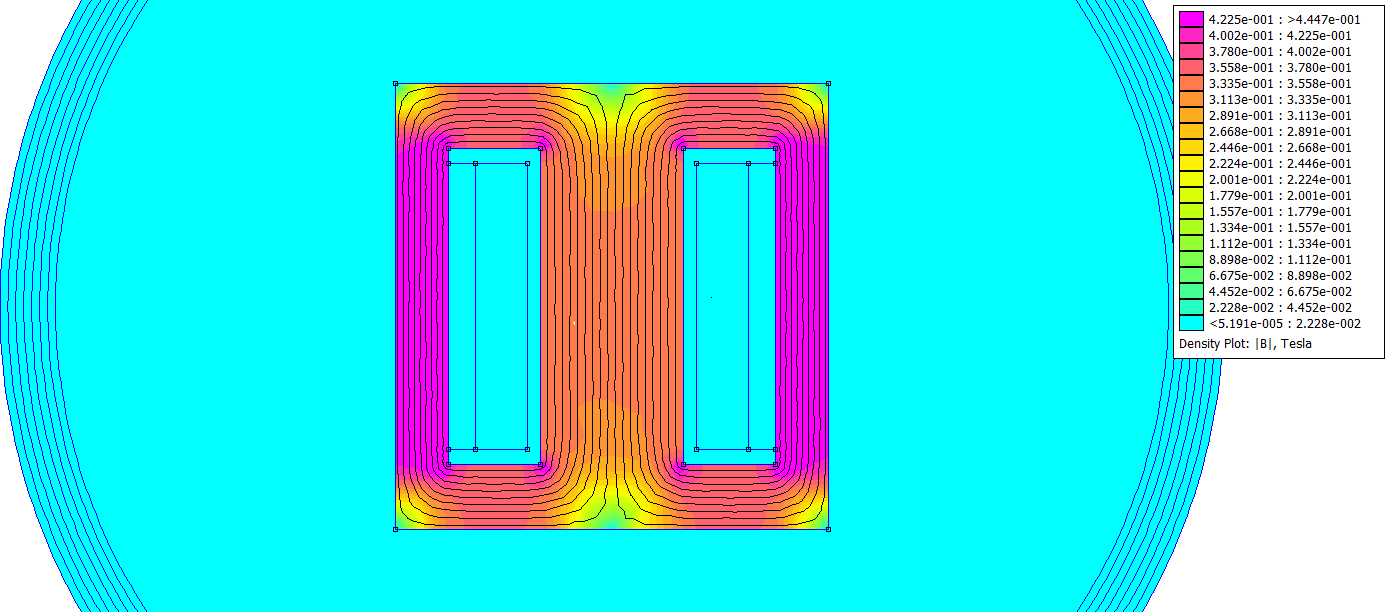
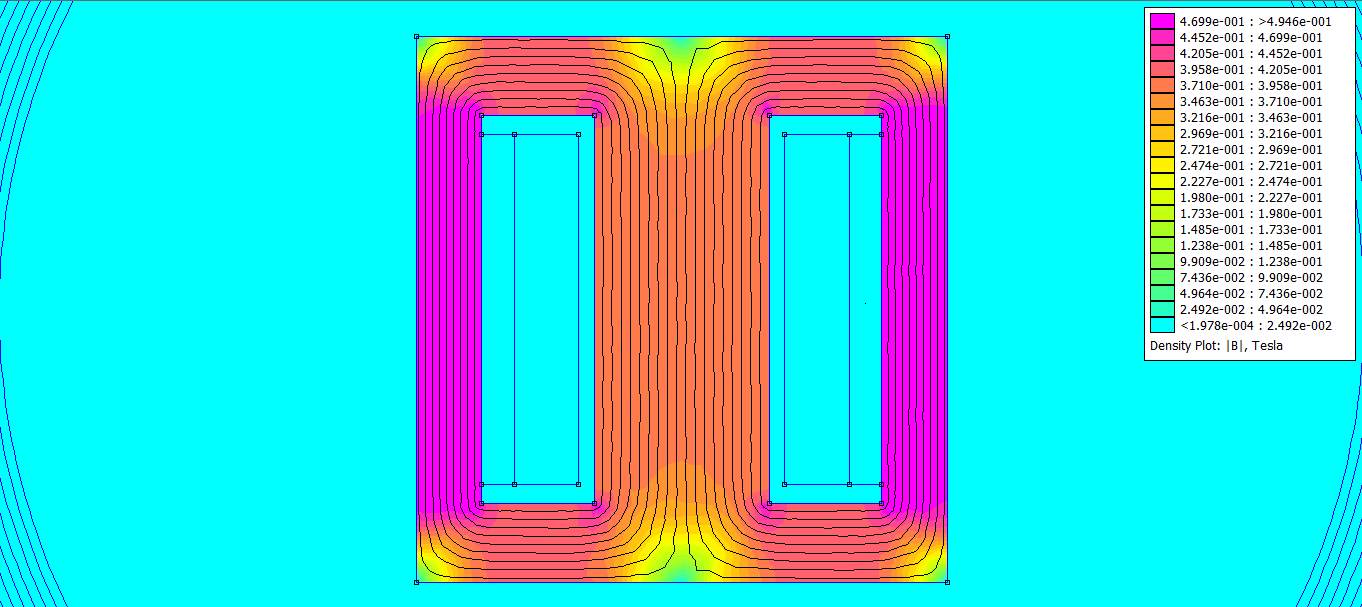
Initial cleanup for application notes (#19)
* Cleaning up the repo for implementation

* Fixed grammar and spelling

* Unhighlighting the LLC converter

* Added objectives & high-level topology

* Removed high-level topology header

* Removed converter from diagram

* Updated most of the new readme

* Indexed the sections

* Replaced resoannt inductor & transformer with resonant passives and made inductor and transformer subs

* Move noted into each section and made (Dependency) a note instead of just work in progress for all

* Added ascii diagram for LLC-HVS & LLC-LVS

* Updated diagram

* Update README.md

* Added image to transformer section

* Added the final components to it

* Renamed resonant to magnetic

* Added reference to simulation notes

* Updated readme

* Added more notes for the currently implemented sections

* Clean up of objectives & transformer section

* Updated FEMM image

* Update README.md

* Made it more explict

* Update README.md

* Looking at the split

* Added proposed topology & integration

* Update README.md

* Update README.md

* Update README.md

* Update README.md

* Doesn't need systems

* Doesn't need design notes

* Update README.md

* Update README.md

* Update README.md

* Update README.md

* Update README.md

* Update README.md

* Update README.md

* Update README.md

* Update README.md

* Update README.md

* Update README.md

* Update README.md

---------

diff --git a/README.md b/README.md
@@ -38,69 +38,123 @@ Thanks for downloading the APU repository `▽`ʃ♡ — but please be safe with
 ![Power Electronics](https://img.shields.io/badge/Domain-Power_Electronics-e01e37?style=flat-square&logoColor=FFFFFF)
 ![LLC Resonant](https://img.shields.io/badge/Topology-LLC_Resonant%2FDC-FFFFFF?style=flat-square&logoColor=e01e37)
 
-> This repository was done for the `FSAE` elective `(AUTO1931)` at RMIT between 20 July and 13 Nov, 2026.
+<!-- > This repository was done for the `FSAE` elective `(AUTO1931)` at RMIT between 20 July and 13 Nov, 2026. -->
 
-A proposed architecture to feed the low-voltage grounded `(LVG)` system using the tractive battery's `400–600 V` domain via an LLC 
-converter to step down the voltage to `12 V`, which feeds an LVG battery. The proposed implementation would be a `12 V`, `25 A` 
-isolated `LLC` converter with the LVG battery allowing for standby mode, absorbing line noise from the converter, and handling high load transients.
-
-This low-voltage grounded auxiliary power unit `(LVG-APU)` enables drive-less features in future vehicle iterations while potentially 
-reducing LVG battery mass and improving packaging. The component-level packaging also allows for long-term usage and reduces validation
-per iteration via the ability to black-box the solution.
-
-#### High-level System Topology
+The APU is a proposed low-voltage grounded (LVG) power architecture that allows the tractive battery, while connected, to feed the LVG system via an
+isolated LLC converter, effectively using the LVG battery as a line buffer. This has the secondary benefit of allowing standby mode 
+while the tractive battery is disconnected.
 
 ```
-Traction battery (600 V)
-         ↓
-LVG-APU Interface (Undecided Connector) (Unknown EMI / Ripple)
------------------------------------------------------------------
-Isolated LLC resonant half-bridge DC/DC (~300 W target) (LLV-HS, LLV-LV)
-         ↓
-LV battery buffer (12 V) (Energy Buffer) (Undecided Capacity) ← Charger (Isolated Supply) (Unknown Range)
------------------------------------------------------------------
-LVG-APU Interface (Undecided Connector) (Unknown EMI / Ripple)
-         ↓
-LV vehicle systems (12 V) (~200 W estimate)
+Traction battery (600 V) → APU-LLC (12 V) → APU-Battery (12 V) → LVG Systems (12 V)
 ```
+
+### Objectives
+
+```
+- Support a `400-600 V` input range from the tractive battery.
+- Support up to `300 W` continuous loads on the APU and `800 W` peaks.
+- Reach an asymptote temperature under `70°C` with passive cooling.
+- Validate the APU architecture and generate performance curves.
+- Pass the EMC/EMI requirements and pass the 2027 Formula SAE rules inspection.
+```
+
+> The project scoping document can be found within [00_docs](./00_docs/) or [directly](./00_docs/01_scope.pdf).
 
 ---
 
-### Implementation
+### Magnetic Passives
 
-The design will be implemented as two independent boards, which are then mechanically and electrically connected via the transformer. 
-This reflects the natural system boundaries between the high and low voltage sides while also improving the ability to perform sub-circuit testing.
+#### Transformer
 
-#### APU Topology
+> *(Work in progress). The resonant transformer is currently being designed and implemented.*
+
+The transformer forms the magnetising inductance $L_m$ and sets the baseline voltage of the system. This specific implementation uses an `N87` core with a 
+`glass fibre` coil former. The turns ratio is `21:1`, with litz wire used on both the primary and secondary due to the ~100–200 kHz operating frequency.
+
+<div align="center">
+  <img src="./05_media/01_simulation/01_finite_element/FEMM_solution.png" alt="Planar transformer solution" style="max-width: 600px">
+  <br>
+  <em>Planar approximation using FEMM of Transformer |B| field</em>
+</div>
+
+#### Inductor
+
+> *(Dependency). The resonant inductor is dependent on the implementation of the transformer.*
+
+The inductor forms the series inductance $L_r$, which allows for frequency response tuning. For this specific implementation, this inductor 
+enables less precise transformer design and manufacturing compared to combining $L_r$ into the transformer via leakage inductance.
+
+See the [simulation notes](./01_simulation/readme.md) for implementation details and other tooling. <br>
+See the [02_passives](./02_passives/readme.md) for implementation details.
+
+---
+
+### LLC-HVS & LLC-LVS Boards
+
+> *(Dependency). The LLC-HVS and LLC-LVS are dependent on the implementation of the magnetic passives.*
+
+#### Proposed Topology
 
 ```
-Interface (Undecided Connector) 
-LLC-HVS - Tractive battery input (400-600V domain) (Unknown EMI)
+LLC-HVS — Tractive Battery Input (400–600 V Domain) (Unknown EMI)
 -----------------------------------------------------------------
-EMI filter (Common-mode chokes) (Shunt Capacitors)
+EMI Filter (Common-mode chokes) (Shunt Capacitors)
          ↓
-Half Bridge Mosfets <- Half bridge Driver IC <- LLC Controller <- Optocoupler
+Half-Bridge MOSFETs ← Half-Bridge Driver IC ← LLC Controller → LLC-HVS Optocoupler
          ↓
-Resonant Tank Circuit (Capacitor & External Inductor)
+Resonant Tank Circuit (Capacitor & Inductor)
 -----------------------------------------------------------------
-High Frequency Transformer (Primary) (400-600 HF AC)
+High-Frequency Transformer (Primary) (400-600 HF AC)
 
 =============================================
 Ferrite Core (Magnetic & Structural Coupling)
 =============================================
 
-LLC-LVS - High Frequency transformer (Secondary) (12V AC) (Unknown Ripple)
+LLC-LVS — High-Frequency Transformer (Secondary) (12 V AC)
 -----------------------------------------------------------------
-Synchronous Rectifier -> Status MCU (STM32) <- Optocoupler
-         ↓
-Integrated battery (12 V) (Undecided Capacity) <- Isolated Charger
+Synchronous Rectifier
+        ↓
+Status MCU (STM32) ← LLC-HVS Optocoupler 
 -----------------------------------------------------------------
-LV-Interface (Undecided Connector) (12V Domain) (Unknown EMI)
 ```
+
+See the [03_boards](./03_boards/readme.md) for implementation details.
+
+---
+
+### APU Battery & External Charging Interface
+
+> *(Dependency). The APU battery is dependent on the implementation of the LLC-HVS and LLC-LVS.*
+
+#### Proposed Topology
+
+```
+APU-EBC (Isolated Supply) (Unknown Range) → APU-BI → APU-battery (12 V) (Undecided Capacity)
+```
+
+APU-EBC = Auxiliary Power Unit External Battery Charger. <br>
+APU-BI = Auxiliary Power Unit Battery Interface.
+
+See the [03_boards](./03_boards/readme.md) for implementation details.
+
+---
+
+### APU Packaging & Integration
+
+> *(Dependency). The APU packaging is dependent on all of the above.*
+
+#### Proposed Integration
+
+> *(Note). This is a very early conceptual integration.* <br>
+
+The proposed integration is to package the LLC converter above the APU battery, with the converter ultimately sitting next to 
+the APU-BI and APU-EBC boards, with a separation plane between the battery. That plane splits the APU into two sections: 
+the `electronics box` with EMI shielding and the `battery box` with appropriate containment systems.
 
 ---
 
 ### Documentation
+
 All internal documentation can be found within this repo's [issues](https://github.com/rmit-wgbowley/LV-Isolated-Buck/issues).
 
 #### Tags
@@ -113,7 +167,11 @@ L1 -> System level design, topology and interfaces
 L2 -> Detailed design & prototyping
 L3 -> Testing & Validation of prototype
 ----------------------------------------------------
+```
 
+<br>
+
+```
 Miscellaneous:
 ----------------------------------------------------
 DS -> De-scoped Feature, De-scoped Analysis

diff --git a/01_simulation/readme.md b/01_simulation/readme.md
@@ -9,13 +9,24 @@ analytical modelling, and circuit-net (SPICE) simulations.
 
 This folder contains analytical models for exploring design variables and building system intuition at medium fidelity but extremely fast.
 
+```
+- First Harmonic Approximation (FHA)
+- Transfer Gain vs Input Voltage
+- Winding Loading
+```
+
 For detailed documentation, refer to [00_analytical/readme.md](00_analytical/readme.md).
 
 ---
 
 ### 01_finite_element
 
-This folder contains finite element models for exploring transformer and inductor design variables using specific core and coil forms.
+This folder contains finite element models for exploring transformer and inductor design variables using specific cores and coil forms.
+
+```
+- Magnetostatic Transformer
+- Magnetostatic Inductor
+```
 
 For detailed documentation, refer to [01_finite_element/readme.md](01_finite_element/readme.md).
 
